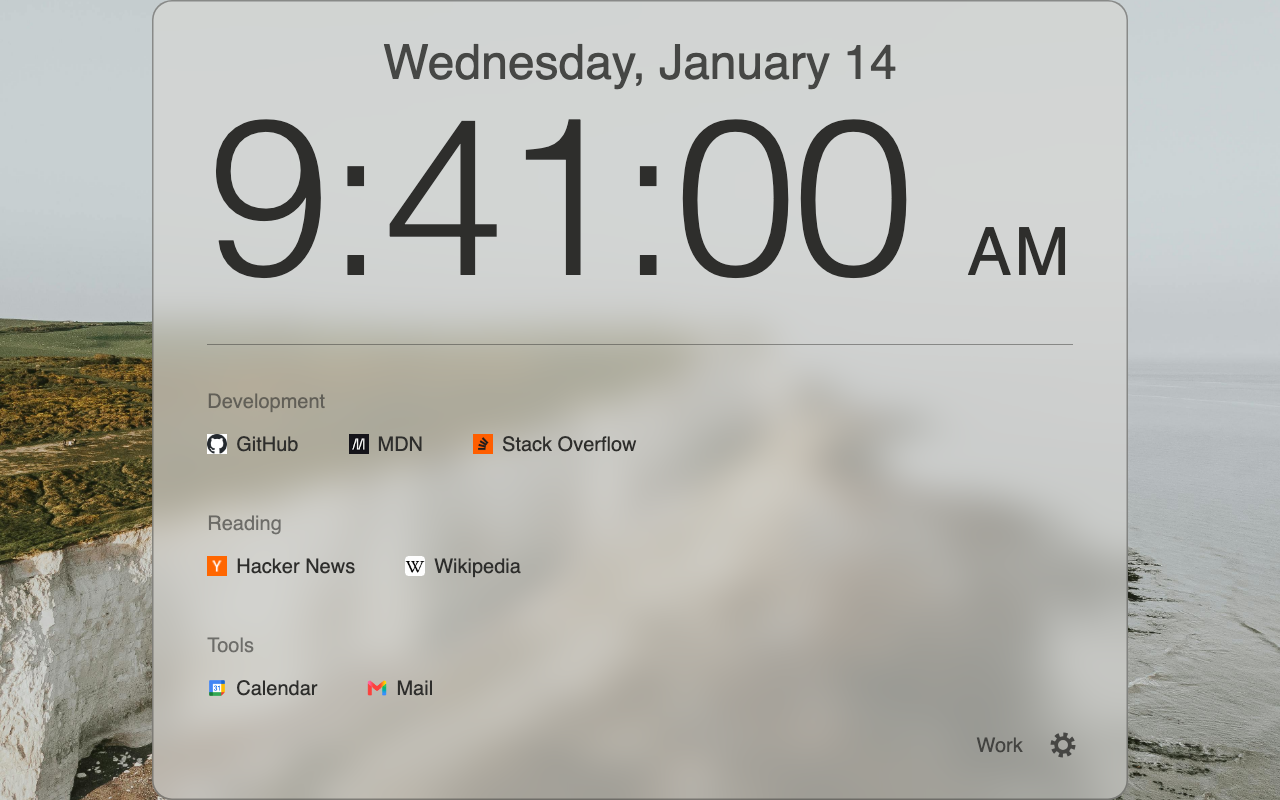
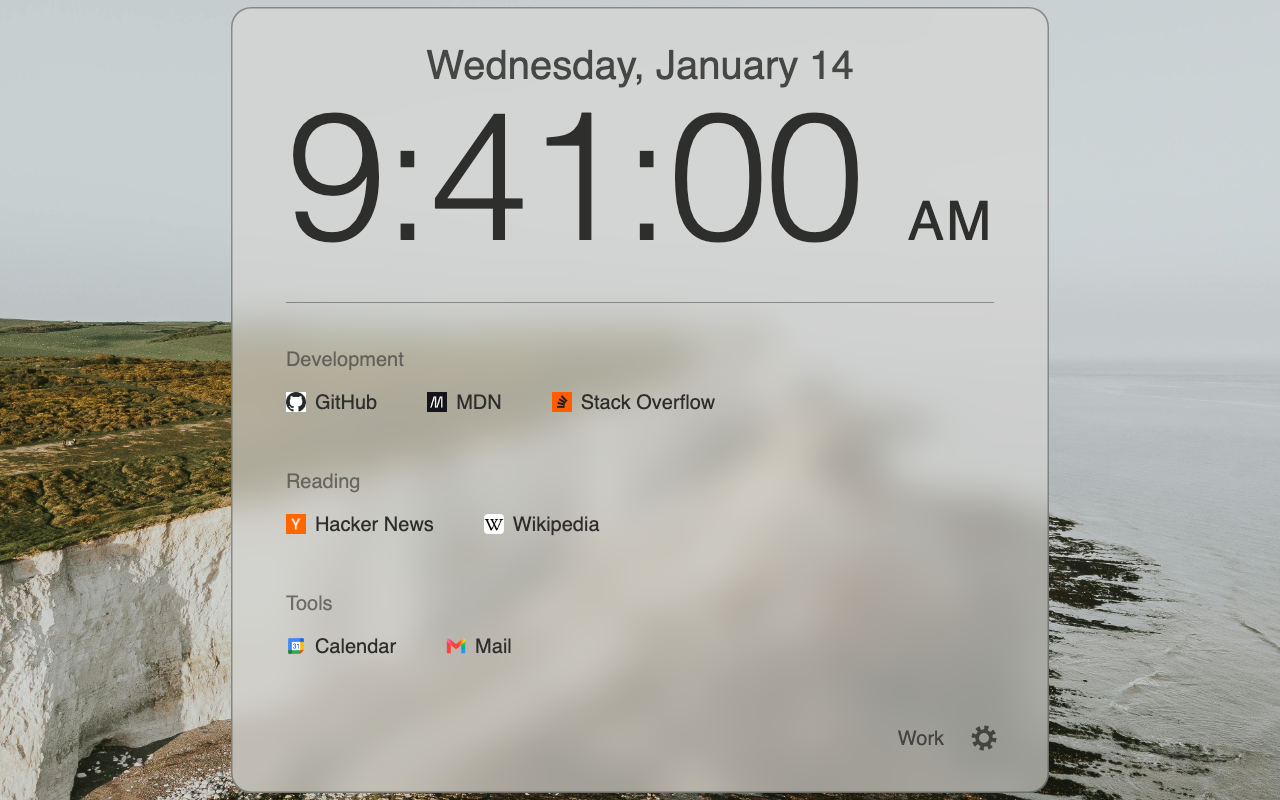
Cap Size at 200% and ease the Center clock down a notch
Sizes past 200% just pushed the panels off screen, so the Size slider
now tops out at 200% (typing respects the same limit) and a saved size
above that is capped on load.

The Center clock had grown to dominate the panel; its time goes from
11rem to 9rem and its date from 2.4rem to 2rem.

Regenerates the store screenshots.

diff --git a/storage.js b/storage.js
@@ -12,6 +12,9 @@ const LEGACY_SYNC_KEY = "tabbyData";
 const LOCAL_ACTIVE_SET_KEY = "activeSet";
 const DEFAULT_SET_NAME = "Default";
 
+// Largest Size setting (200%); the settings slider's max matches
+const MAX_SCALE = 2;
+
 const defaultSettings = {
   showLinks: true,
   showDate: true,
@@ -19,7 +22,7 @@ const defaultSettings = {
   twelveHourClock: true,
   showFavicons: true,
   showSeconds: true,
-  // Size multiplier for both new-tab panels
+  // Size multiplier for both new-tab panels, up to MAX_SCALE
   scale: 1,
   // Panel look; the Frosted preset (see LOOK_PRESETS in render.js)
   look: {
@@ -103,7 +106,7 @@ const backfillSettings = (meta) => {
     look: { ...defaultSettings.look, ...storedLook, ...keptLayout(storedLook.layout) },
     // Links and clock used to have separate sizes; the links size carries
     // over as the shared one
-    scale: stored.scale ?? linksScale ?? defaultSettings.scale,
+    scale: Math.min(MAX_SCALE, stored.scale ?? linksScale ?? defaultSettings.scale),
   };
   return meta;
 };

diff --git a/options.html b/options.html
@@ -666,7 +666,7 @@
           <div class="field">
             <label for="panel-scale">Size</label>
             <div class="field-row">
-              <input type="range" id="panel-scale" min="0.25" max="8" step="0.25" />
+              <input type="range" id="panel-scale" min="0.25" max="2" step="0.25" />
               <span class="value" id="panel-scale-value"></span>
             </div>
           </div>

diff --git a/panels.css b/panels.css
@@ -253,13 +253,13 @@ body[data-layout="center"] {
   }
 
   & .clock-date {
-    font-size: 2.4rem;
+    font-size: 2rem;
     font-weight: 500;
     opacity: 0.85;
   }
 
   & .clock-time {
-    font-size: 11rem;
+    font-size: 9rem;
     font-weight: 200;
     line-height: 1;
     letter-spacing: -0.02em;
